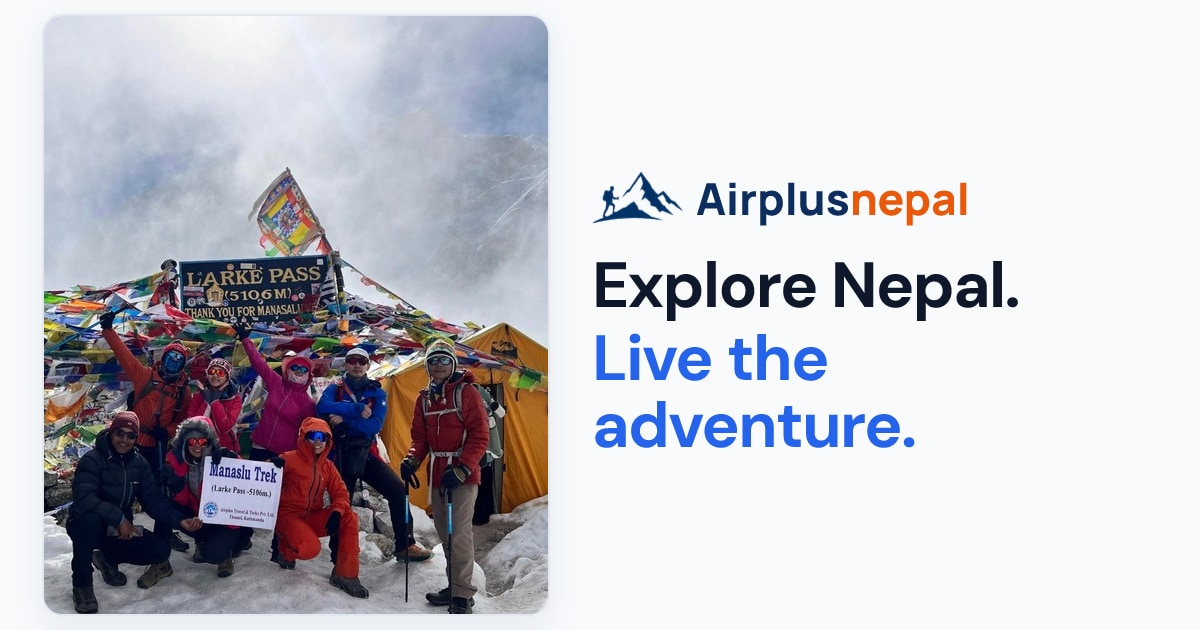
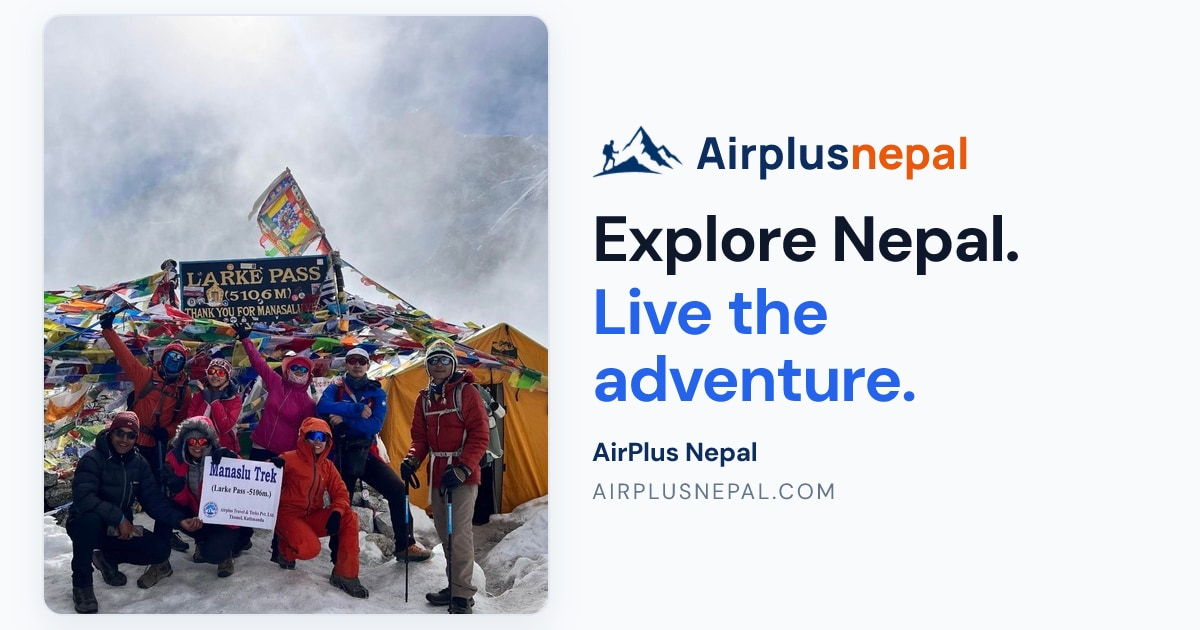
Add business name and domain to OG share image.
Show AirPlus Nepal and airplusnepal.com below the tagline; cache-bust to v=4.

Changed region(s): [[0.4933, 0.2111, 0.8633, 0.8143]]

diff --git a/airplus-modern/web/scripts/generate-share-og.tsx b/airplus-modern/web/scripts/generate-share-og.tsx
@@ -8,7 +8,7 @@ import path from "node:path";
 import sharp from "sharp";
 import { loadOgFonts } from "../src/lib/og-fonts";
 import { OG_HEIGHT, OG_WIDTH } from "../src/lib/og-image";
-import { SITE_COLORS } from "../src/lib/site";
+import { SITE_COLORS, SITE_DOMAIN, SITE_NAME } from "../src/lib/site";
 
 const PAD_X = 36;
 const PAD_Y = 14;
@@ -17,7 +17,7 @@ const CARD_W = LEFT_COL - 12;
 const CARD_H = OG_HEIGHT - PAD_Y * 2;
 const GAP = 36;
 
-const { background, heading, primary, accent, brandNavy, border, white } = SITE_COLORS;
+const { background, heading, primary, accent, brandNavy, border, muted, white } = SITE_COLORS;
 
 function publicPath(...parts: string[]) {
   return path.join(process.cwd(), "public", ...parts);
@@ -123,6 +123,40 @@ async function main() {
               Live the adventure.
             </span>
           </div>
+
+          <div
+            style={{
+              display: "flex",
+              flexDirection: "column",
+              marginTop: 22,
+              fontFamily: "DM Sans",
+            }}
+          >
+            <span
+              style={{
+                display: "flex",
+                fontSize: 26,
+                fontWeight: 600,
+                color: brandNavy,
+                letterSpacing: "-0.01em",
+              }}
+            >
+              {SITE_NAME}
+            </span>
+            <span
+              style={{
+                display: "flex",
+                marginTop: 8,
+                fontSize: 22,
+                fontWeight: 400,
+                color: muted,
+                letterSpacing: "0.12em",
+                textTransform: "uppercase",
+              }}
+            >
+              {SITE_DOMAIN}
+            </span>
+          </div>
         </div>
       </div>
     ),
@@ -130,6 +164,7 @@ async function main() {
       width: OG_WIDTH,
       height: OG_HEIGHT,
       fonts: [
+        { name: "DM Sans", data: fonts.dmSansRegular, weight: 400, style: "normal" },
         { name: "DM Sans", data: fonts.dmSansBold, weight: 700, style: "normal" },
         { name: "Manrope", data: fonts.manropeExtraBold, weight: 800, style: "normal" },
       ],

diff --git a/airplus-modern/web/src/lib/og-fonts.ts b/airplus-modern/web/src/lib/og-fonts.ts
@@ -22,7 +22,11 @@ async function loadFont(
 }
 
 export async function loadOgFonts() {
-  const [dmSansBold, manropeExtraBold] = await Promise.all([
+  const [dmSansRegular, dmSansBold, manropeExtraBold] = await Promise.all([
+    loadFont(
+      `${FONT_CDN}/@fontsource/dm-sans@5.2.8/files/dm-sans-latin-400-normal.woff`,
+      ["@fontsource/dm-sans/files/dm-sans-latin-400-normal.woff"],
+    ),
     loadFont(
       `${FONT_CDN}/@fontsource/dm-sans@5.2.8/files/dm-sans-latin-700-normal.woff`,
       ["@fontsource/dm-sans/files/dm-sans-latin-700-normal.woff"],
@@ -33,5 +37,5 @@ export async function loadOgFonts() {
     ),
   ]);
 
-  return { dmSansBold, manropeExtraBold };
+  return { dmSansRegular, dmSansBold, manropeExtraBold };
 }

diff --git a/airplus-modern/web/src/app/layout.tsx b/airplus-modern/web/src/app/layout.tsx
@@ -39,8 +39,8 @@ export const metadata: Metadata = {
     description: DEFAULT_OG_DESCRIPTION,
     images: [
       {
-        url: "/og/share.jpg?v=3",
-        secureUrl: "/og/share.jpg?v=3",
+        url: "/og/share.jpg?v=4",
+        secureUrl: "/og/share.jpg?v=4",
         width: OG_WIDTH,
         height: OG_HEIGHT,
         alt: `${SITE_NAME} — Explore Nepal. Live the adventure.`,
@@ -52,7 +52,7 @@ export const metadata: Metadata = {
     card: "summary_large_image",
     title: DEFAULT_OG_TITLE,
     description: DEFAULT_OG_DESCRIPTION,
-    images: ["/og/share.jpg?v=3"],
+    images: ["/og/share.jpg?v=4"],
   },
 };
 

diff --git a/airplus-modern/web/src/app/page.tsx b/airplus-modern/web/src/app/page.tsx
@@ -57,13 +57,13 @@ export async function generateMetadata(): Promise<Metadata> {
       title: DEFAULT_OG_TITLE,
       description: home.hero.subtitle || DEFAULT_OG_DESCRIPTION,
       url: SITE_URL,
-      images: [{ url: "/og/share.jpg?v=3", width: 1200, height: 630, type: "image/jpeg" }],
+      images: [{ url: "/og/share.jpg?v=4", width: 1200, height: 630, type: "image/jpeg" }],
     },
     twitter: {
       card: "summary_large_image",
       title: DEFAULT_OG_TITLE,
       description: home.hero.subtitle || DEFAULT_OG_DESCRIPTION,
-      images: ["/og/share.jpg?v=3"],
+      images: ["/og/share.jpg?v=4"],
     },
   };
 }

diff --git a/airplus-modern/web/src/lib/site.ts b/airplus-modern/web/src/lib/site.ts
@@ -1,4 +1,5 @@
 export const SITE_URL = "https://www.airplusnepal.com";
+export const SITE_DOMAIN = "airplusnepal.com";
 export const SITE_NAME = "AirPlus Nepal";
 
 export const DEFAULT_TITLE = "AirPlus Nepal — Travels & Treks";
